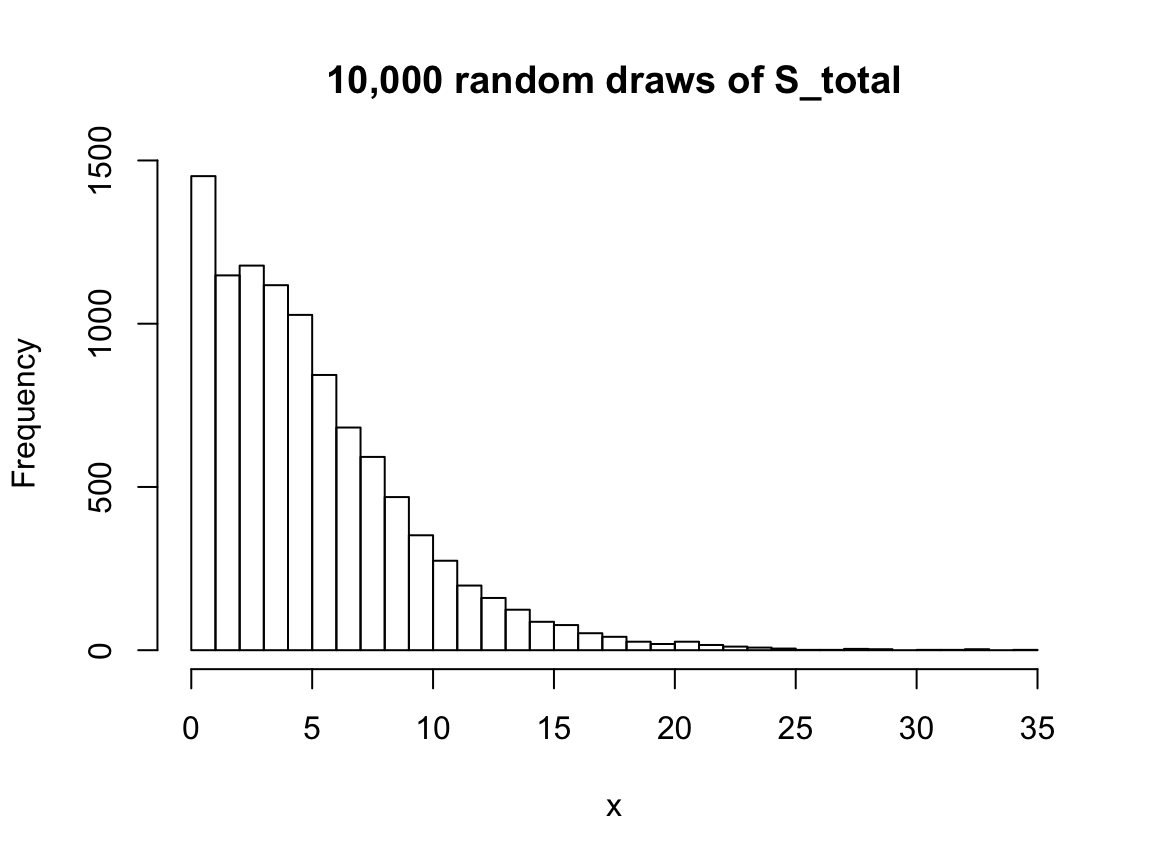
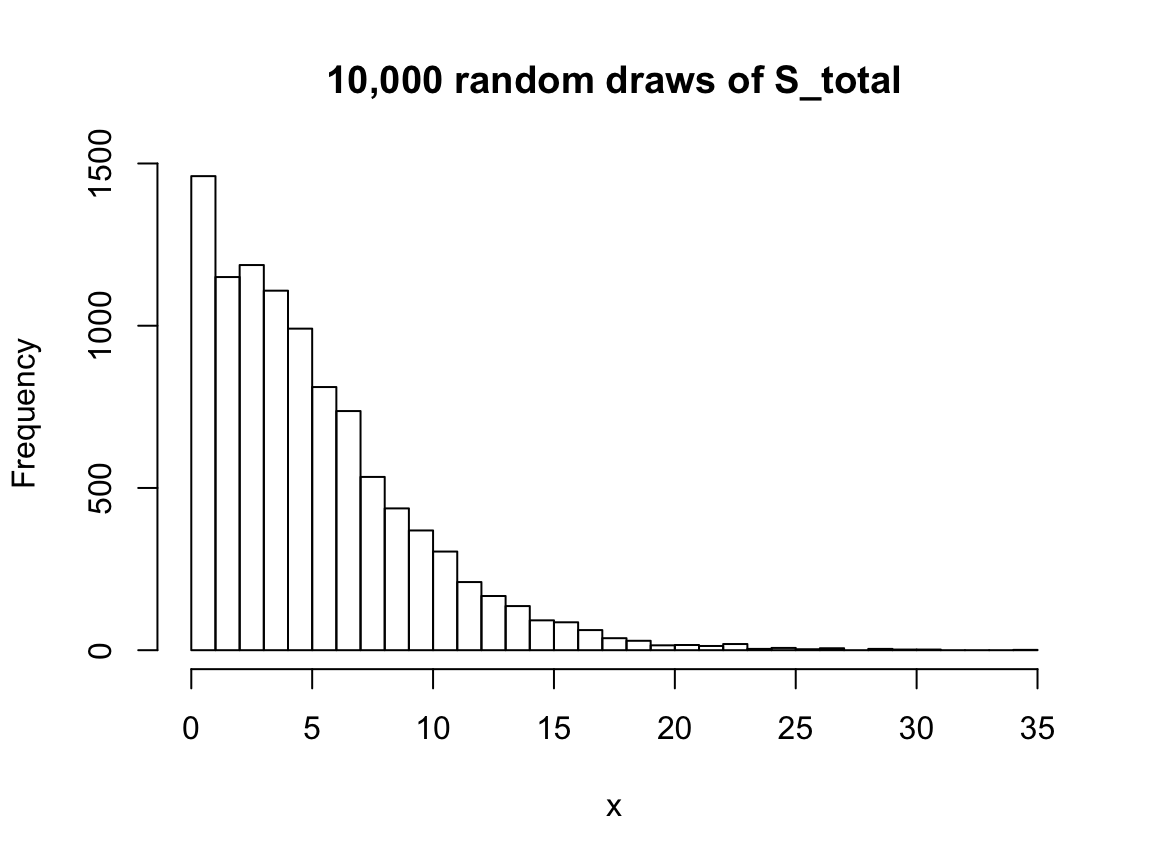
Updated website

diff --git a/docs/articles/pop_gen_iker.html b/docs/articles/pop_gen_iker.html
@@ -68,7 +68,14 @@
   </ul>
 </li>
       </ul>
-<ul class="nav navbar-nav navbar-right"></ul>
+<ul class="nav navbar-nav navbar-right">
+<li>
+  <a href="https://github.com/rivasiker/phasty/">
+    <span class="fab fa fab fa-github fa-lg"></span>
+     
+  </a>
+</li>
+      </ul>
 </div>
 <!--/.nav-collapse -->
   </div>
@@ -84,7 +91,7 @@
       <h1 data-toc-skip>Using phasty for population genetics</h1>
             
       
-      
+      <small class="dont-index">Source: <a href="https://github.com/rivasiker/phasty/blob/master/vignettes/pop_gen_iker.Rmd"><code>vignettes/pop_gen_iker.Rmd</code></a></small>
       <div class="hidden name"><code>pop_gen_iker.Rmd</code></div>
 
     </div>
@@ -293,10 +300,10 @@ T_{total} = T_{MRCA} \circ [n, n-1, ..., 2]
 <p><img src="pop_gen_iker_files/figure-html/unnamed-chunk-20-1.png" width="576" style="display: block; margin: auto;"></p>
 <p>And the random drawer:</p>
 <div class="sourceCode" id="cb21"><html><body><pre class="r"><span class="fu"><a href="../reference/dphtype.html">rphtype</a></span>(<span class="fl">3</span>, <span class="no">t_mrca_4</span>)
-<span class="co">#&gt; [1] 0.4788252 2.4379822 1.0383906</span>
+<span class="co">#&gt; [1] 3.2900983 0.7662133 1.4777739</span>
 <span class="fu"><a href="../reference/dphtype.html">rphtype</a></span>(<span class="fl">10</span>, <span class="no">t_total_4</span>)
-<span class="co">#&gt;  [1]  1.1423077  2.7199551  6.1333345  2.4042933  2.0233117  2.8133022</span>
-<span class="co">#&gt;  [7]  0.7889951 16.9353085  0.4143951  1.7982492</span></pre></body></html></div>
+<span class="co">#&gt;  [1] 4.617676 5.728200 2.031024 3.348304 6.496894 2.313284 5.846459 6.879552</span>
+<span class="co">#&gt;  [9] 6.680346 7.310034</span></pre></body></html></div>
 <div class="sourceCode" id="cb22"><html><body><pre class="r"><span class="no">x</span> <span class="kw">&lt;-</span> <span class="fu"><a href="../reference/dphtype.html">rphtype</a></span>(<span class="fl">10000</span>, <span class="no">t_mrca_4</span>)
 <span class="fu"><a href="https://rdrr.io/r/graphics/hist.html">hist</a></span>(<span class="no">x</span>, <span class="kw">main</span> <span class="kw">=</span> <span class="st">'10,000 random draws of T_MRCA'</span>, <span class="kw">breaks</span><span class="kw">=</span><span class="fl">50</span>)</pre></body></html></div>
 <p><img src="pop_gen_iker_files/figure-html/unnamed-chunk-22-1.png" width="576" style="display: block; margin: auto;"></p>
@@ -598,9 +605,9 @@ T_{total} = T_{MRCA} \circ [n, n-1, ..., 2]
 <p><img src="pop_gen_iker_files/figure-html/unnamed-chunk-45-1.png" width="576" style="display: block; margin: auto;"></p>
 <p>And the random drawer:</p>
 <div class="sourceCode" id="cb46"><html><body><pre class="r"><span class="fu"><a href="../reference/dphtype.html">rphtype</a></span>(<span class="fl">3</span>, <span class="no">s_tot_4_3</span>)
-<span class="co">#&gt; [1] 6 8 4</span>
+<span class="co">#&gt; [1] 4 4 2</span>
 <span class="fu"><a href="../reference/dphtype.html">rphtype</a></span>(<span class="fl">10</span>, <span class="no">xi1_4_3</span>)
-<span class="co">#&gt;  [1] 11  4  6  2  1  1  3  4  2  5</span></pre></body></html></div>
+<span class="co">#&gt;  [1]  5  3  3 12  2  3  4 10  6  4</span></pre></body></html></div>
 <div class="sourceCode" id="cb47"><html><body><pre class="r"><span class="no">x</span> <span class="kw">&lt;-</span> <span class="fu"><a href="../reference/dphtype.html">rphtype</a></span>(<span class="fl">10000</span>, <span class="no">s_tot_4_3</span>)-<span class="fl">1</span>
 <span class="fu"><a href="https://rdrr.io/r/graphics/hist.html">hist</a></span>(<span class="no">x</span>, <span class="kw">main</span> <span class="kw">=</span> <span class="st">'10,000 random draws of S_total'</span>, <span class="kw">breaks</span><span class="kw">=</span><span class="fl">40</span>)</pre></body></html></div>
 <p><img src="pop_gen_iker_files/figure-html/unnamed-chunk-47-1.png" width="576" style="display: block; margin: auto;"></p>

diff --git a/docs/articles/Phasty.html b/docs/articles/Phasty.html
@@ -68,7 +68,14 @@
   </ul>
 </li>
       </ul>
-<ul class="nav navbar-nav navbar-right"></ul>
+<ul class="nav navbar-nav navbar-right">
+<li>
+  <a href="https://github.com/rivasiker/phasty/">
+    <span class="fab fa fab fa-github fa-lg"></span>
+     
+  </a>
+</li>
+      </ul>
 </div>
 <!--/.nav-collapse -->
   </div>
@@ -84,7 +91,7 @@
       <h1 data-toc-skip>Phasty v0.1</h1>
             
       
-      
+      <small class="dont-index">Source: <a href="https://github.com/rivasiker/phasty/blob/master/vignettes/Phasty.Rmd"><code>vignettes/Phasty.Rmd</code></a></small>
       <div class="hidden name"><code>Phasty.Rmd</code></div>
 
     </div>
@@ -252,8 +259,8 @@
 <span class="fu"><a href="https://rdrr.io/r/base/cat.html">cat</a></span>(<span class="st">'10 random samples: \n \n'</span>, <span class="fu"><a href="../reference/dphtype.html">rphtype</a></span>(<span class="fl">5</span>, <span class="no">ph</span>), <span class="st">'\n'</span>, <span class="fu"><a href="../reference/dphtype.html">rphtype</a></span>(<span class="fl">5</span>, <span class="no">ph</span>))
 <span class="co">#&gt; 10 random samples: </span>
 <span class="co">#&gt;  </span>
-<span class="co">#&gt;  8.980479 6.03256 1.207956 3.609036 7.694883 </span>
-<span class="co">#&gt;  2.035407 3.409828 2.130876 1.980484 6.364143</span></pre></body></html></div>
+<span class="co">#&gt;  5.078757 1.485009 2.449289 3.652611 2.334932 </span>
+<span class="co">#&gt;  3.574192 2.127139 5.504208 0.3806223 5.073861</span></pre></body></html></div>
 <p>It is possible to give to each transient state a weight by a reward transformation, to do so we will use a reward vector of size <span class="math inline">\(p\)</span></p>
 <div class="sourceCode" id="cb9"><html><body><pre class="r"><span class="no">r</span> <span class="kw">=</span> <span class="fu"><a href="https://rdrr.io/r/base/c.html">c</a></span>(<span class="fl">1</span>,<span class="fl">0</span>,<span class="fl">4</span>)
 
@@ -317,8 +324,8 @@
 <span class="fu"><a href="https://rdrr.io/r/base/cat.html">cat</a></span>(<span class="st">'10 random samples: \n \n'</span>, <span class="fu"><a href="../reference/dphtype.html">rphtype</a></span>(<span class="fl">5</span>, <span class="no">dph</span>), <span class="st">'\n'</span>, <span class="fu"><a href="../reference/dphtype.html">rphtype</a></span>(<span class="fl">5</span>, <span class="no">dph</span>))
 <span class="co">#&gt; 10 random samples: </span>
 <span class="co">#&gt;  </span>
-<span class="co">#&gt;  2 1 5 9 2 </span>
-<span class="co">#&gt;  1 4 1 4 4</span></pre></body></html></div>
+<span class="co">#&gt;  1 1 2 4 2 </span>
+<span class="co">#&gt;  1 5 2 1 5</span></pre></body></html></div>
 </div>
 </div>
 <div id="the-multivariate-distribution" class="section level1">

diff --git a/docs/index.html b/docs/index.html
@@ -69,7 +69,14 @@
   </ul>
 </li>
       </ul>
-<ul class="nav navbar-nav navbar-right"></ul>
+<ul class="nav navbar-nav navbar-right">
+<li>
+  <a href="https://github.com/rivasiker/phasty/">
+    <span class="fab fa fab fa-github fa-lg"></span>
+     
+  </a>
+</li>
+      </ul>
 </div>
 <!--/.nav-collapse -->
   </div>
@@ -94,7 +101,14 @@
   </div>
 
   <div class="col-md-3 hidden-xs hidden-sm" id="pkgdown-sidebar">
-    <div class="license">
+    <div class="links">
+<h2>Links</h2>
+<ul class="list-unstyled">
+<li>Browse source code at <br><a href="https://github.com/rivasiker/phasty/">https://github.com/rivasiker/phasty/</a>
+</li>
+</ul>
+</div>
+<div class="license">
 <h2>License</h2>
 <ul class="list-unstyled">
 <li><a href="https://www.r-project.org/Licenses/GPL-3">GPL-3</a></li>

diff --git a/docs/reference/var.html b/docs/reference/var.html
@@ -112,7 +112,12 @@ disc_phase_type and mult_cont_phase_type classes respectively." />
 </li>
       </ul>
       <ul class="nav navbar-nav navbar-right">
-        
+        <li>
+  <a href="https://github.com/rivasiker/phasty/">
+    <span class="fab fa fab fa-github fa-lg"></span>
+     
+  </a>
+</li>
       </ul>
       
     </div><!--/.nav-collapse -->
@@ -127,7 +132,7 @@ disc_phase_type and mult_cont_phase_type classes respectively." />
   <div class="col-md-9 contents">
     <div class="page-header">
     <h1>Variance of phase-type distributions</h1>
-    
+    <small class="dont-index">Source: <a href='https://github.com/rivasiker/phasty/blob/master/R/var.R'><code>R/var.R</code></a></small>
     <div class="hidden name"><code>var.Rd</code></div>
     </div>
 

diff --git a/docs/reference/dphtype.html b/docs/reference/dphtype.html
@@ -113,7 +113,12 @@ phase-type distributions." />
 </li>
       </ul>
       <ul class="nav navbar-nav navbar-right">
-        
+        <li>
+  <a href="https://github.com/rivasiker/phasty/">
+    <span class="fab fa fab fa-github fa-lg"></span>
+     
+  </a>
+</li>
       </ul>
       
     </div><!--/.nav-collapse -->
@@ -129,7 +134,7 @@ phase-type distributions." />
     <div class="page-header">
     <h1>Density, distribution function, quantile function and random generation for
 phase-type distributions.</h1>
-    
+    <small class="dont-index">Source: <a href='https://github.com/rivasiker/phasty/blob/master/R/phtype_functions.R'><code>R/phtype_functions.R</code></a></small>
     <div class="hidden name"><code>dphtype.Rd</code></div>
     </div>
 

diff --git a/docs/reference/mean.html b/docs/reference/mean.html
@@ -112,7 +112,12 @@ disc_phase_type and mult_cont_phase_type classes." />
 </li>
       </ul>
       <ul class="nav navbar-nav navbar-right">
-        
+        <li>
+  <a href="https://github.com/rivasiker/phasty/">
+    <span class="fab fa fab fa-github fa-lg"></span>
+     
+  </a>
+</li>
       </ul>
       
     </div><!--/.nav-collapse -->
@@ -127,7 +132,7 @@ disc_phase_type and mult_cont_phase_type classes." />
   <div class="col-md-9 contents">
     <div class="page-header">
     <h1>Mean of phase-type distributions</h1>
-    
+    <small class="dont-index">Source: <a href='https://github.com/rivasiker/phasty/blob/master/R/mean.R'><code>R/mean.R</code></a></small>
     <div class="hidden name"><code>mean.Rd</code></div>
     </div>
 

diff --git a/docs/reference/reward_phase_type.html b/docs/reference/reward_phase_type.html
@@ -111,7 +111,12 @@ non-negative reward vector." />
 </li>
       </ul>
       <ul class="nav navbar-nav navbar-right">
-        
+        <li>
+  <a href="https://github.com/rivasiker/phasty/">
+    <span class="fab fa fab fa-github fa-lg"></span>
+     
+  </a>
+</li>
       </ul>
       
     </div><!--/.nav-collapse -->
@@ -126,7 +131,7 @@ non-negative reward vector." />
   <div class="col-md-9 contents">
     <div class="page-header">
     <h1>Reward transformation</h1>
-    
+    <small class="dont-index">Source: <a href='https://github.com/rivasiker/phasty/blob/master/R/reward_phase_type.R'><code>R/reward_phase_type.R</code></a></small>
     <div class="hidden name"><code>reward_phase_type.Rd</code></div>
     </div>
 

diff --git a/docs/articles/Populations_genetics.html b/docs/articles/Populations_genetics.html
@@ -68,7 +68,14 @@
   </ul>
 </li>
       </ul>
-<ul class="nav navbar-nav navbar-right"></ul>
+<ul class="nav navbar-nav navbar-right">
+<li>
+  <a href="https://github.com/rivasiker/phasty/">
+    <span class="fab fa fab fa-github fa-lg"></span>
+     
+  </a>
+</li>
+      </ul>
 </div>
 <!--/.nav-collapse -->
   </div>
@@ -84,7 +91,7 @@
       <h1 data-toc-skip>Phase-type application to coalescent theory</h1>
             
       
-      
+      <small class="dont-index">Source: <a href="https://github.com/rivasiker/phasty/blob/master/vignettes/Populations_genetics.Rmd"><code>vignettes/Populations_genetics.Rmd</code></a></small>
       <div class="hidden name"><code>Populations_genetics.Rmd</code></div>
 
     </div>

diff --git a/docs/reference/phase_type.html b/docs/reference/phase_type.html
@@ -112,7 +112,12 @@ different phase-type distributions." />
 </li>
       </ul>
       <ul class="nav navbar-nav navbar-right">
-        
+        <li>
+  <a href="https://github.com/rivasiker/phasty/">
+    <span class="fab fa fab fa-github fa-lg"></span>
+     
+  </a>
+</li>
       </ul>
       
     </div><!--/.nav-collapse -->
@@ -127,7 +132,7 @@ different phase-type distributions." />
   <div class="col-md-9 contents">
     <div class="page-header">
     <h1>Phase_type</h1>
-    
+    <small class="dont-index">Source: <a href='https://github.com/rivasiker/phasty/blob/master/R/phase_type.R'><code>R/phase_type.R</code></a></small>
     <div class="hidden name"><code>phase_type.Rd</code></div>
     </div>
 

diff --git a/docs/reference/moment_mph.html b/docs/reference/moment_mph.html
@@ -111,7 +111,12 @@ distributions." />
 </li>
       </ul>
       <ul class="nav navbar-nav navbar-right">
-        
+        <li>
+  <a href="https://github.com/rivasiker/phasty/">
+    <span class="fab fa fab fa-github fa-lg"></span>
+     
+  </a>
+</li>
       </ul>
       
     </div><!--/.nav-collapse -->
@@ -126,7 +131,7 @@ distributions." />
   <div class="col-md-9 contents">
     <div class="page-header">
     <h1>Moments of the multivariate phase-type distribution</h1>
-    
+    <small class="dont-index">Source: <a href='https://github.com/rivasiker/phasty/blob/master/R/phase_type.R'><code>R/phase_type.R</code></a></small>
     <div class="hidden name"><code>moment_mph.Rd</code></div>
     </div>
 

diff --git a/docs/articles/Population_genetics.html b/docs/articles/Population_genetics.html
@@ -68,7 +68,14 @@
   </ul>
 </li>
       </ul>
-<ul class="nav navbar-nav navbar-right"></ul>
+<ul class="nav navbar-nav navbar-right">
+<li>
+  <a href="https://github.com/rivasiker/phasty/">
+    <span class="fab fa fab fa-github fa-lg"></span>
+     
+  </a>
+</li>
+      </ul>
 </div>
 <!--/.nav-collapse -->
   </div>
@@ -84,7 +91,7 @@
       <h1 data-toc-skip>Population_genetics</h1>
             
       
-      
+      <small class="dont-index">Source: <a href="https://github.com/rivasiker/phasty/blob/master/vignettes/Population_genetics.Rmd"><code>vignettes/Population_genetics.Rmd</code></a></small>
       <div class="hidden name"><code>Population_genetics.Rmd</code></div>
 
     </div>
